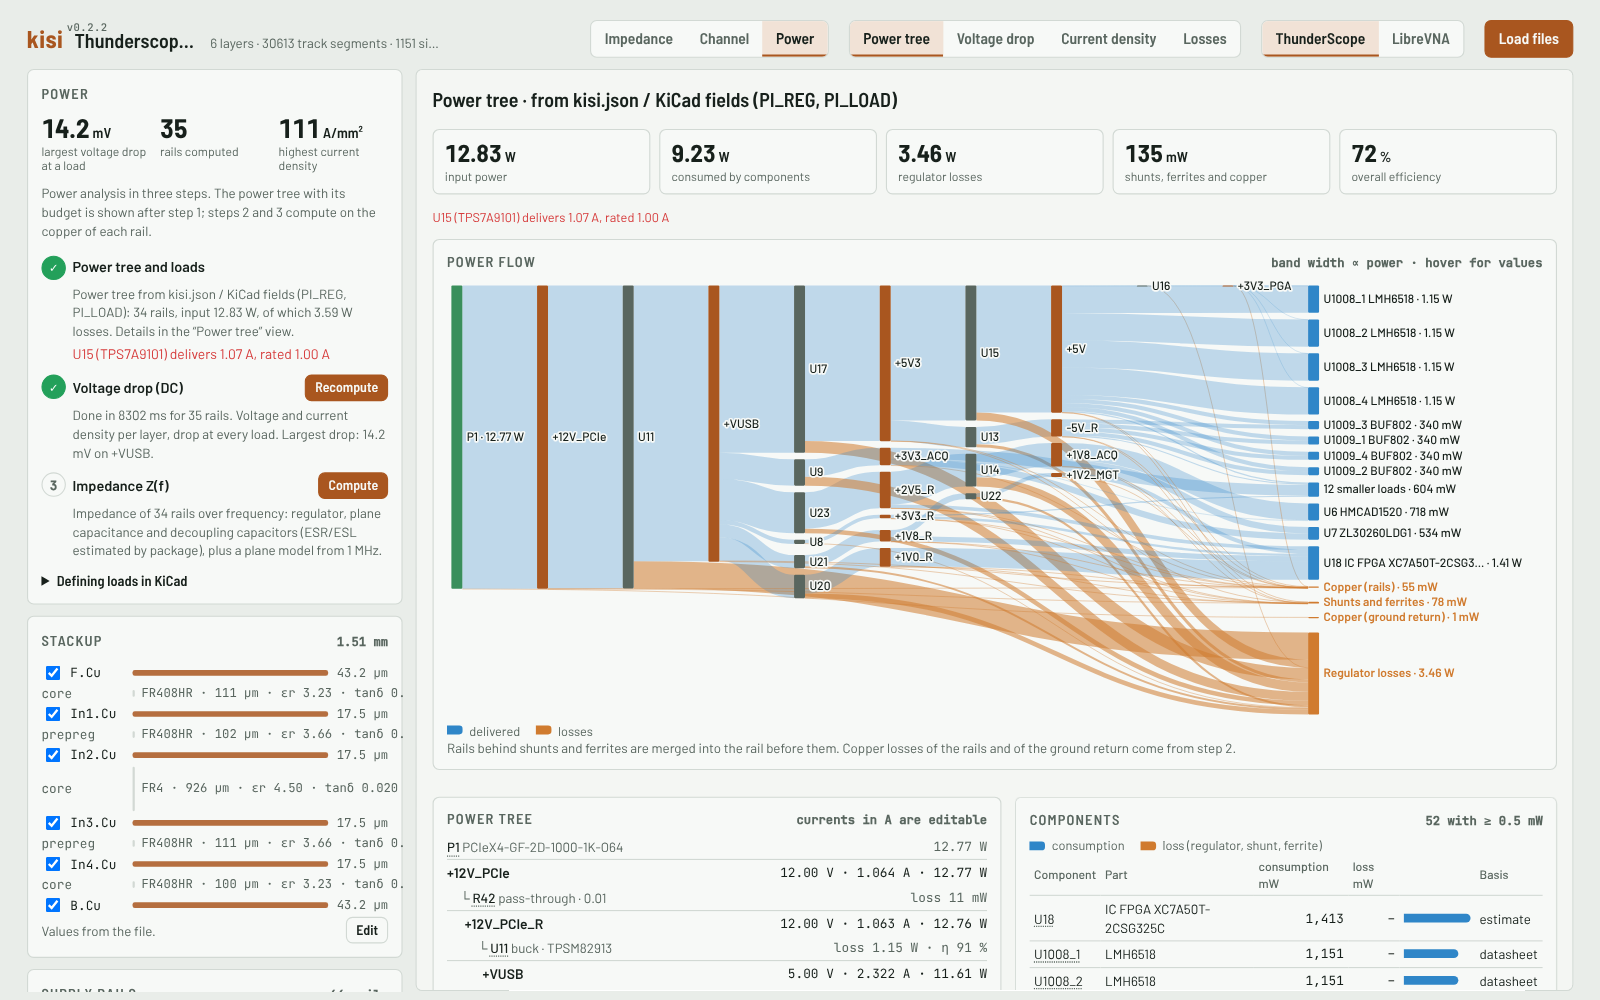
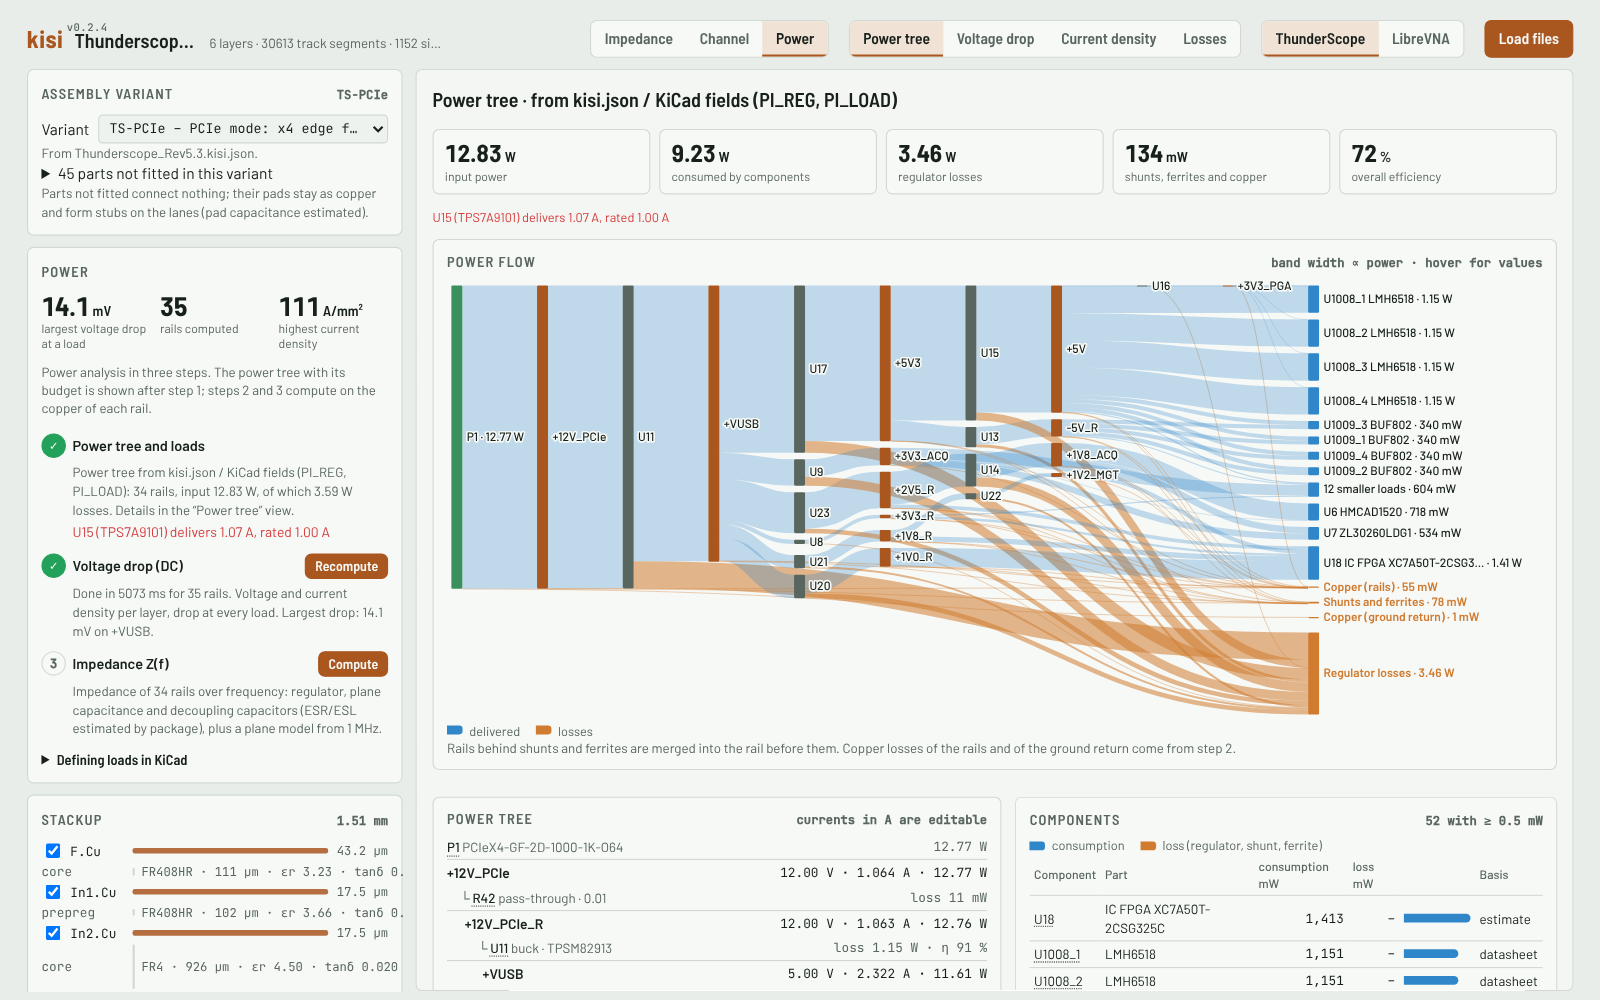
Version 0.2.4
- Version 0.2.4 (Cargo workspace, Cargo.lock, plugin manifest, ROADMAP).
- Viewer: copper zones hidden at the start ("Show copper zones: none"); the
  choice is kept per board. The unused plane-layer guess is removed.
- README and landing page: the channel check covers lanes to connectors and
  their eye; assembly variants on the landing page.
- Skills: kisi-si-pi-review describes connector ends and the board-share
  eye (the "eyes only from IC to IC" note was outdated); kisi-prepare
  covers connector_ends, PMICs with several outputs (`id=`), net names
  with spaces and asking early for datasheets.
- ROADMAP: done items moved to the release notes; findings of the
  kisi-prepare test on the Seeed XIAO nRF54LM20A (rails without a voltage,
  net names with spaces, default efficiency as an estimate, MPN in gaps,
  config-template example, power tree per supply case, check_viewer without
  nets); IBIS: parser and linearised ends stay in branch feat/ibis-parser
  as preliminary work for M3; reproducible example bundles.
- Screenshots regenerated (tools/screenshots.py).

Changed region(s): [[0.0, 0.093, 0.25, 0.992], [0.125, 0.031, 0.2812, 0.062]]

diff --git a/web/pages/index.html b/web/pages/index.html
@@ -102,13 +102,13 @@ footer p { margin: 0; max-width: 90ch }
         <div class="card"><h3>Impedance</h3>
           <ul><li>Targets from net class names (<code>50Z</code>, <code>90Z_Diff</code>)</li><li>Formulas in a second, the 2D field solver on demand</li><li>Impedance along the path, loss, TDR, vias, crosstalk</li></ul></div>
         <div class="card"><h3>Channel</h3>
-          <ul><li>Buses and lanes through series parts and AC caps</li><li>Profiles: PCIe, USB, DDR, LVDS, Ethernet, HDMI, MIPI …</li><li>Loss, return loss, skew and a simple eye</li></ul></div>
+          <ul><li>Buses and lanes through series parts and AC caps, per assembly variant</li><li>Profiles: PCIe, USB, DDR, LVDS, Ethernet, HDMI, MIPI …</li><li>Loss, return loss, skew and a linear eye, also at connectors with the channel behind them</li></ul></div>
         <div class="card"><h3>Power</h3>
           <ul><li>Regulator chain, budget and power flow with losses</li><li>DC voltage drop and current density per rail and layer, also in the ground return</li><li>PDN impedance seen from every IC: capacitors ranked by loop inductance, anti-resonances, target and recommendations</li></ul></div>
       </div>
       <div class="pair">
         <figure><img src="img/net.png" width="1600" height="1000" alt="Net detail with the TDR of a differential pair"><figcaption><b>Net detail:</b> impedance along the path, loss, TDR with physics-based via models, skew and crosstalk for every net with a target</figcaption></figure>
-        <figure><img src="img/channel.png" width="1600" height="1000" alt="Channel view: interfaces of the board with their verdicts"><figcaption><b>Channel check:</b> lanes from IC to IC through series parts, judged against interface profiles on loss, return loss, skew and a simple eye</figcaption></figure>
+        <figure><img src="img/channel.png" width="1600" height="1000" alt="Channel view: interfaces of the board with their verdicts"><figcaption><b>Channel check:</b> lanes from IC to IC or to a connector through series parts, judged against interface profiles on loss, return loss, skew and a linear eye</figcaption></figure>
         <figure><img src="img/flow.png" width="1600" height="1000" alt="Power flow from the inputs through the regulators to the loads"><figcaption><b>Power flow:</b> from the supply inputs through every regulator to the loads, with regulator, shunt and copper losses</figcaption></figure>
         <figure><img src="img/power.png" width="1600" height="1000" alt="Voltage drop of a rail and its impedance seen from an IC"><figcaption><b>Voltage drop and PDN:</b> DC drop on every layer of a rail, and its impedance seen from an IC with the decoupling capacitors ranked by loop inductance</figcaption></figure>
       </div>

diff --git a/web/src/load.js b/web/src/load.js
@@ -67,8 +67,8 @@ async function loadFiles(pcbText, proText, name, piDefaults = null, cfg = null) 
     if (S.pool) S.pool.reset();
     const n = S.scene.stackup.copper.length;
     S.layerOn = new Array(n).fill(true);
-    // default plane layer: first inner layer with most zone area, else none
-    S.zoneLayer = guessPlaneLayer();
+    // copper zones hidden at the start ("Show copper zones: none"); the choice is kept per board
+    S.zoneLayer = -1;
     S.boardKey = key.replace(/\|v=.*$/, "") + "|v=" + (vchoice || "");
     const tParse = performance.now() - t0;
     if (snap) {
@@ -95,23 +95,6 @@ async function loadFiles(pcbText, proText, name, piDefaults = null, cfg = null) 
     $("warnings").innerHTML = `<span class="err">Could not read file: ${esc(e.message)}</span>`;
     console.error(e);
   }
-}
-
-function guessPlaneLayer() {
-  const n = S.scene.stackup.copper.length, idx = S.zones.idx, pts = S.zones.pts;
-  const area = new Array(n).fill(0);
-  for (let i = 0; i < idx.length; i += 4) {
-    const l = idx[i], st = idx[i + 2], c = idx[i + 3];
-    let a = 0;
-    for (let k = 0; k < c; k++) {
-      const j = (st + k) * 2, j2 = (st + (k + 1) % c) * 2;
-      a += pts[j] * pts[j2 + 1] - pts[j2] * pts[j + 1];
-    }
-    area[l] += Math.abs(a) / 2;
-  }
-  let best = -1, bestA = 0;
-  for (let l = 1; l < n - 1; l++) if (area[l] > bestA) { bestA = area[l]; best = l; }
-  return best;
 }
 
 // stackup changes per board (viewer only; the file is not modified)

diff --git a/ROADMAP.md b/ROADMAP.md
@@ -1,24 +1,24 @@
 # kisi – roadmap
 
-Planned and possible work after 0.2.3, roughly in order of priority. Each item says why it matters;
+Planned and possible work after 0.2.4, roughly in order of priority. Each item says why it matters;
 "Decide first" marks items that need a decision before work starts.
-
-## Done since 0.2.3
-- **Assembly variants (M0 of the channel-simulation concept, `docs/research/channel-simulation-ibis.md`
-  sections 6–8):** KiCad 10 variants from the board file, `variants` / `variant` in `<board>.kisi.json` (by sheet,
-  references or BOM), `--variant` and a selector in the viewer; parts that are not fitted leave their pads as stubs,
-  side stubs and the other path of a fork in the lane cascade; `gaps` and the lane commands ask for a variant when
-  a board has variants or forks with all alternatives fitted. ThunderScope's example config has TS-PCIe and TS-USB4.
-- **Channel view and connector ends:** one "Channel check" card in steps (with the impedance view's field solver),
-  the board map per variant (unused nets faint, click opens a channel), a Path tab for nets without devices, and an
-  eye for every lane: at a connector with the end set per connector (termination or driver) and the channel behind
-  it – a lossy line or a Touchstone file (`.s2p`, also on each line of a pair; `.s4p` of a pair) – judged when a
-  channel behind it is given (`connector_ends` in kisi.json).
 
 ## Next
 - **`kisi gaps`: supply rails without a voltage in the name.** Nets such as `Net-(IC22-VCC)` are not recognised as
   rails, so the ICs on them are missing from the load list. Use regulator outputs (`PI_REG … @V`) and the parts on
-  the net to detect them.
+  the net to detect them. XIAO nRF54LM20A (power tree test of the kisi-prepare skill): VSYS, VBUS and VBAT of the
+  nPM1300 PMIC are not found; `VSYS@5V` in the field works as a workaround.
+- **PI_REG output rails with spaces in the net name.** Hierarchical names such as `/06 Peripherals/IMU_VDD` cannot be
+  written, because the field parser splits at whitespace; allow quoting (`"/06 Peripherals/IMU_VDD"`). Workaround on
+  the XIAO: a load point at the ferrite (`IMU&MIC_3V3=0.9mA@FB3`).
+- **Default efficiency of switching regulators as an estimate.** Without a value kisi assumes 85 %; the viewer's power
+  tree shows it as “η 85 %” without an estimate mark and the CLI output has no flag for it. Mark it as an estimate in
+  both (AGENTS.md rule), so that a missing datasheet value is visible.
+- **MPN in `kisi gaps` and part lists.** Footprints often carry a Manufacturer / MPN field while the Value field is not
+  a part number; show the MPN when the value is not one, so that the user (and the skill) can look up the right
+  datasheet. XIAO: U4 has the value “英联” (the manufacturer), the MPN is UM3204H.
+- **`kisi config-template`: a load as the PI_LOAD example.** The example takes the first U part, which can be a
+  regulator (XIAO: U1 TPS628438); pick a part that is a load (not a PI_REG part, not on a regulator's output only).
 - **Skills on real boards.** Run kisi-prepare and kisi-si-pi-review on a few real projects; sharpen the research
   guidance (datasheet sections, typical vs. maximum) and add a worked example `<board>.kisi.json`.
 
@@ -30,8 +30,15 @@ Planned and possible work after 0.2.3, roughly in order of priority. Each item s
   model per pin with real vendor files ([Model Selector], [Diff Pin], package models, pin names vs. pads), how
   IBIS ends and interface profiles fit together (swing, terminations, current-mode drivers), validation with real
   files and a reference simulator. Research and concept (solvers, model sources, DDR test flows, assembly
-  variants, staged plan): `docs/research/channel-simulation-ibis.md`; M0 (assembly variants) is done, M1 (IBIS
-  parser) is next.
+  variants, staged plan): `docs/research/channel-simulation-ibis.md`; M0 (assembly variants) is in 0.2.4. M1 (IBIS
+  parser, `kisi ibis`, mapping in kisi.json with `config-check`) and, on top of it, linearised IBIS ends in check and
+  eye with the model choice per IC and lane in the interfaces view (one “Load IBIS…”, “as the profile” as default,
+  manual pin mapping) are in branch `feat/ibis-parser`, kept there as preliminary work for M3 (transient with the
+  buffers); the viewer integration needs more work before a merge. Open there: KiCad's `Sim.*` fields as a second
+  mapping source; IBIS 8.0 keywords; package-model sections; the parser against IBISCHK on real vendor files; an
+  on-die termination and a termination resistor next to the receiver are not combined; the edge from the waveforms
+  already contains the C_comp load; open-drain drivers without the pull resistor; the receiver's R_pin; validation
+  against an IBIS simulator.
 - **Assembly variants, follow-ups:** variant-dependent `fields` in kisi.json (e.g. the TS-USB4 power tree from
   the M.2 connector); a via whose barrel continues into a stub beyond the path's layers is counted twice (its own
   stub and the side stub's via, ~0.3 mm on ThunderScope); side stubs in the net channel (`kisi net`) do not add
@@ -64,6 +71,9 @@ Planned and possible work after 0.2.3, roughly in order of priority. Each item s
 - **Power:** via current capacity; a temperature estimate from the losses map (2D heat spreading with
   conductivity of copper and laminate, convection; clearly an estimate); split of regulator losses between IC and
   inductor.
+- **Power tree per supply case.** Boards that run from USB or a battery (a PMIC power path) have one tree per case:
+  on the XIAO, VSYS is VBUS on USB and VBAT on battery, and the debugger is supplied only on USB; while charging, the
+  battery charge current is a load on VSYS. Today one tree has to stand for all cases.
 - **Whole-board validation** against a commercial tool (e.g. HyperLynx) on the example boards.
 - **Decide first: equalisation** (CTLE/FFE) for profiles that require it (PCIe Gen3+). So far deliberately left out.
 
@@ -76,4 +86,8 @@ Planned and possible work after 0.2.3, roughly in order of priority. Each item s
 
 ## Maintenance
 - Solver updates with `tools/upstream_update.sh` when js_2d_fields changes (validation decides).
+- `tools/check_viewer.py --board`: a board without impedance targets (no `.net` rows) stops the run at the net
+  detail; skip that step when there are no nets (found with the XIAO board).
+- `tools/bundle.py`: the gzip of the example boards carries a timestamp, so two builds of the same commit differ;
+  write it with mtime 0 for reproducible bundles.
 - Keep `data/interfaces.json` (standards) and `data/components.json` (package parasitics) current, with sources.

diff --git a/claude-plugin/skills/kisi-prepare/SKILL.md b/claude-plugin/skills/kisi-prepare/SKILL.md
@@ -57,7 +57,10 @@ Every `kisi <command>` prints JSON. Preparing needs no field solver: `gaps`, `co
      IR-drop source; `PI_SOURCE` only marks source pads when there is no regulator chain).
      Regulator outputs that leave through an inductor or diode: add `out=<part>` (e.g. `out=L5`).
      Ferrites/chokes between two rails: `PI_REG` = `+3V3 > 3V3_RF pass r=0.05` (state the assumed
-     resistance). Rails without a voltage in their name: `NAME@1.2V`.
+     resistance). Rails without a voltage in their name: `NAME@1.2V`. A PMIC with several outputs gets
+     one entry per channel, separated by `;` and each with its own `id=` (`VSYS > +3V3 buck 200mA id=U2B;
+     VSYS > +1V8 ldo 50mA id=U2C`). Net names with spaces (hierarchical names) cannot be an output rail
+     yet: put the load on the rail before the bead and name the bead as load point (`+3V3=1mA@FB3`).
    - Ferrite beads and inductors in supply paths (`PI_SERIES`, for the PDN per IC): impedance at
      100 MHz and DC resistance of a bead (`z100=600 rdc=0.15`), inductance and DC resistance of an
      inductor (`l=2.2u dcr=50m`), from the part's datasheet (`kisi gaps`: bead-ratings).
@@ -65,7 +68,14 @@ Every `kisi <command>` prints JSON. Preparing needs no field solver: `gaps`, `co
      sheets that hold each option, KiCad 10 variants in the board file. Define `variants` (by sheet,
      references or BOM, `source` kind `design`) and ask the user which one to analyse – write it as
      `"variant"`; never pick one silently. `"default"` = the board file as it is.
-   Use the user's own documents first (datasheet folder, BOM, fabricator files), then web search.
+   - Connector ends (`connector_ends`, lanes that end at a connector): what the connector meets – the
+     termination when it receives, the driver when it sends (the profile's, matched, high impedance or
+     custom R/C/L) – and the channel behind it: a cable or mating board as loss at the profile's Nyquist
+     frequency and delay, or the vendor's Touchstone file (`.s2p`, `.s4p`). Without a channel behind the
+     connector the eye covers the board share only and is not judged.
+   Use the user's own documents first (datasheet folder, BOM, fabricator files), then web search. Ask for
+   the datasheets early: many manufacturer PDFs cannot be read through a web fetch, and efficiencies are
+   often only given as curves.
 4. **Rules for values:**
    - Every value needs a `source`: `kind` (datasheet, standard, application_note, measurement,
      simulation, design, estimate, assumption) plus `document` and/or `url`, `page`, and a `note`.

diff --git a/README.md b/README.md
@@ -33,7 +33,7 @@ PDN impedance) – in the browser, with no installation and no setup beyond the 
 | | |
 |---|---|
 | ![Net detail with the TDR of a differential pair](docs/img/net.png) | ![Channel view: interfaces and lanes with their verdicts](docs/img/channel.png) |
-| **Net detail:** impedance along the path, loss, TDR with the vias as physics-based models, skew of pairs and crosstalk from the neighbouring tracks – for every net with a target | **Channel check:** buses and lanes from IC to IC through series resistors and AC-coupling capacitors, judged against interface profiles on loss, return loss, skew and a simple eye |
+| **Net detail:** impedance along the path, loss, TDR with the vias as physics-based models, skew of pairs and crosstalk from the neighbouring tracks – for every net with a target | **Channel check:** buses and lanes from IC to IC or to a connector through series resistors and AC-coupling capacitors, judged against interface profiles on loss, return loss, skew and a linear eye (at a connector with the end and the channel behind it that you set) |
 | ![Power flow from the inputs through the regulators to the loads](docs/img/flow.png) | ![Voltage drop of a rail and its impedance seen from an IC](docs/img/power.png) |
 | **Power flow:** from the supply inputs through every regulator to the loads, with regulator, shunt and copper losses | **Voltage drop and PDN:** DC drop and current density on every layer of a rail, and its impedance seen from an IC with the decoupling capacitors ranked by loop inductance |
 

diff --git a/claude-plugin/skills/kisi-si-pi-review/SKILL.md b/claude-plugin/skills/kisi-si-pi-review/SKILL.md
@@ -66,9 +66,11 @@ in the output shows the coverage; `--formula` skips the solver.
 - Eyes are linear PRBS7 estimates with the profile's transmitter/receiver and no equalisation, jitter
   or noise. Limits marked "kisi" in the profile sources are guide values, not standards.
 - Skew marked uncertain comes from branched paths; do not report it as a violation.
-- Eyes exist only for lanes from IC to IC. Lanes ending at a connector (also connector to connector,
-  e.g. test coupons) are judged on the board share (loss, return loss, skew); say that the rest of the
-  channel is not included.
+- Lanes ending at a connector (also connector to connector, e.g. test coupons) get their eye from the
+  end set in `connector_ends` (termination when the connector receives, driver when it sends). Without
+  a channel behind the connector (`rest_loss_db` or a Touchstone file) the eye covers the board share
+  only (`eye_board_share`), is information and not judged – say that the rest of the channel is not
+  included; loss, return loss and skew are judged on the board share.
 - Formula impedances flagged "rough" (a launch or pad over a cut-out in a layer between trace and
   reference) can be 25 % off; prefer `kisi.mjs` (field solver) there.
 - Lanes with an open branch (one IC feeding two connectors, both populated) show the stub's resonance;
